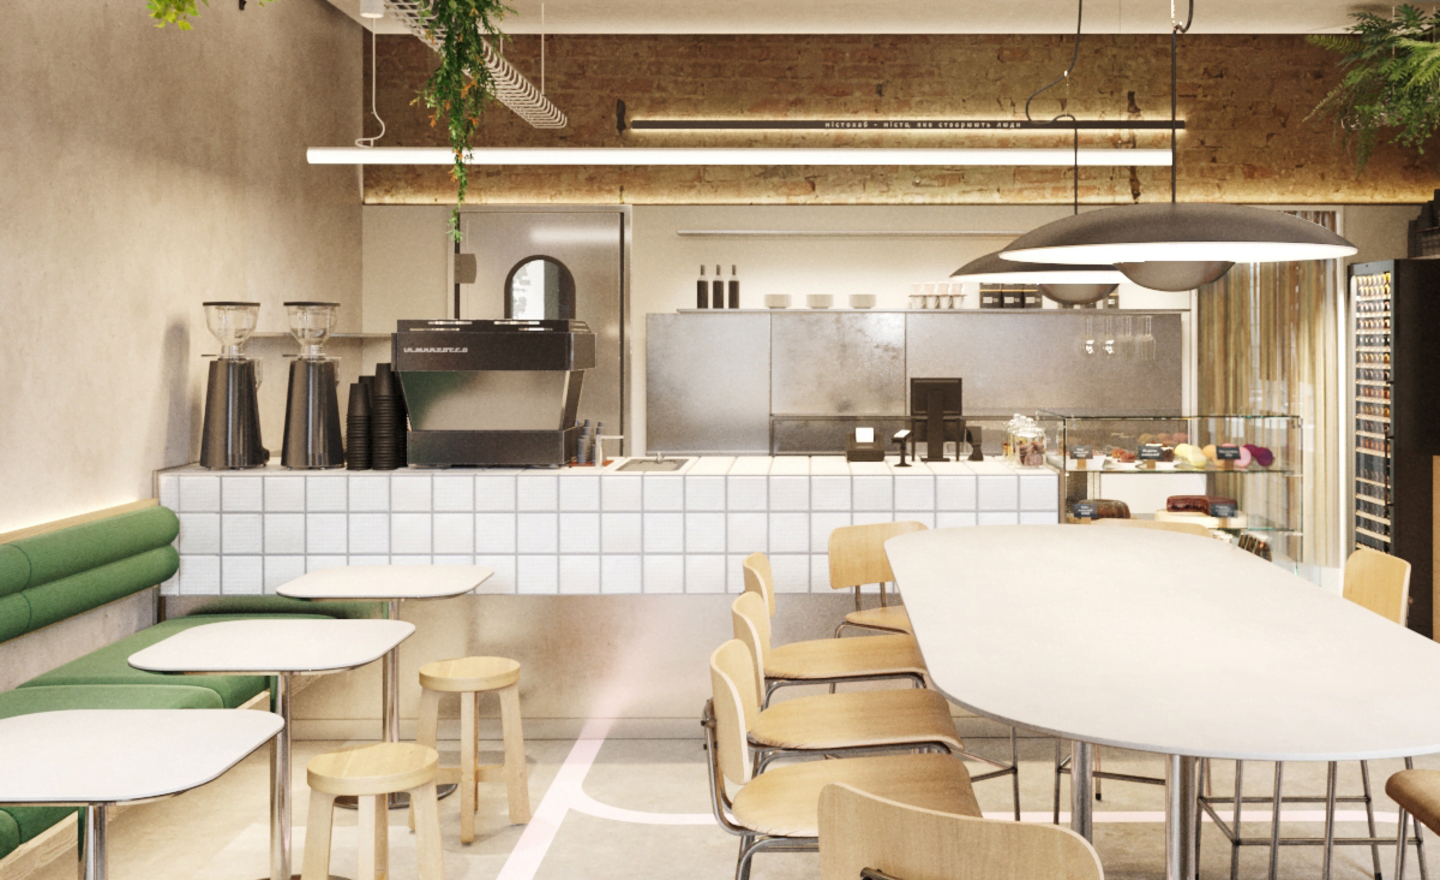
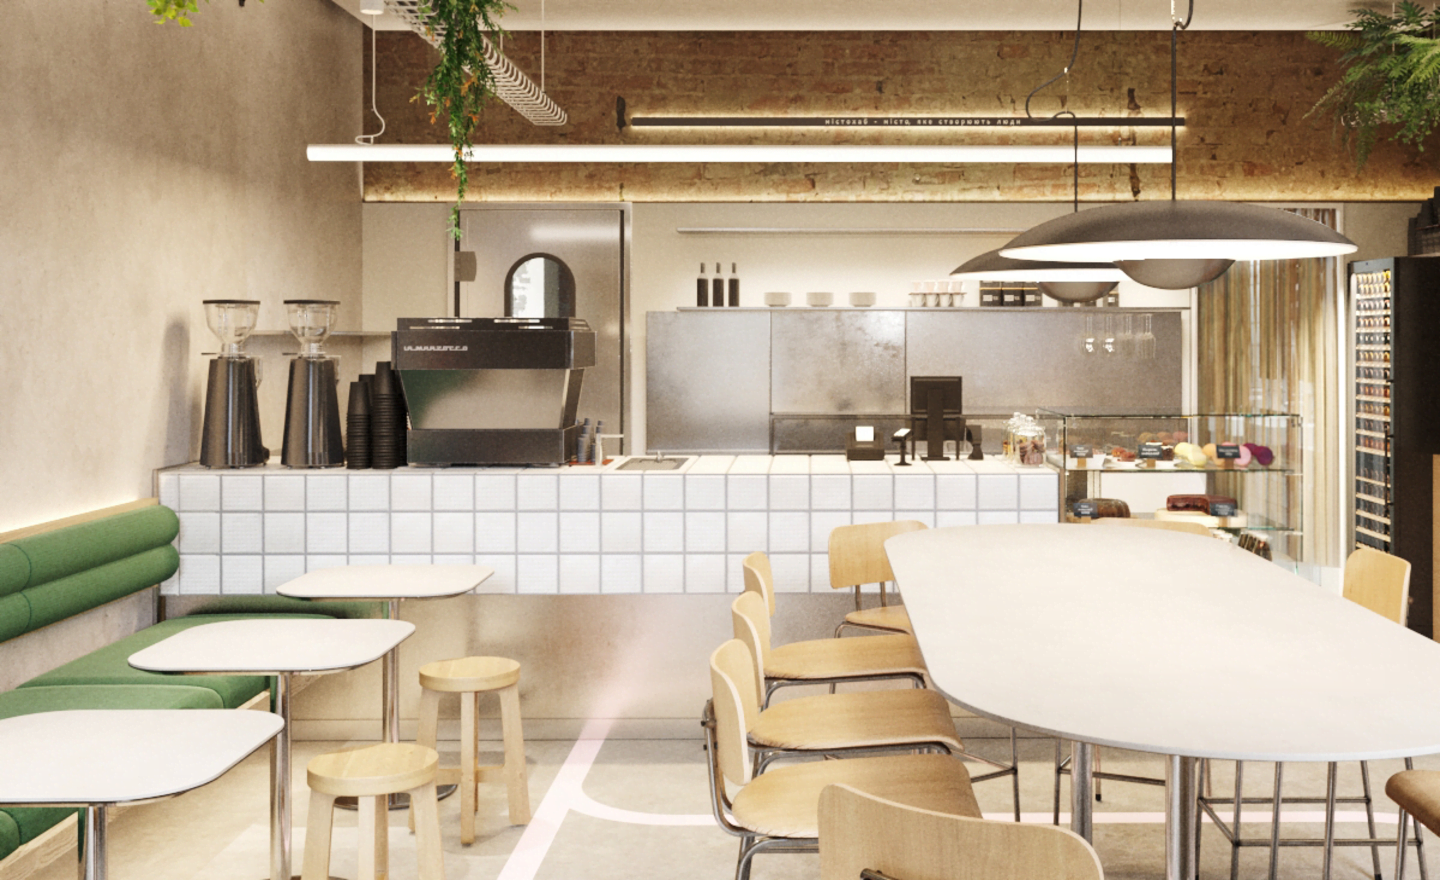
del comment and fix picture attr

diff --git a/src/constants/dataHeroSwiper.js b/src/constants/dataHeroSwiper.js
@@ -1,7 +1,3 @@
-import img1Png1 from '/src/assets/hero/hero1.png';
-import img1Png2 from '/src/assets/hero/hero1@2x.png';
-import img1WebP1 from '/src/assets/hero/hero1.webp';
-import img1WebP2 from '/src/assets/hero/hero1@2x.webp';
 import img1mob from '/src/assets/hero/mobile/hero1mob.png';
 import img1mobWebP from '/src/assets/hero/mobile/hero1mob.webp';
 import img1mob2x from '/src/assets/hero/mobile/hero1mob@2x.png';
@@ -76,7 +72,7 @@ export const heroData = [
       webp: img2WebP1,
       webp_2x: img2WebP2,
     },
-    alt: 'Kitchen 1',
+    alt: 'Kitchen 2',
   },
   {
     mobile: {
@@ -97,7 +93,7 @@ export const heroData = [
       webp: img3WebP1,
       webp_2x: img3WebP2,
     },
-    alt: 'Kitchen 1',
+    alt: 'Kitchen 3',
   },
   {
     mobile: {
@@ -118,7 +114,7 @@ export const heroData = [
       webp: img4WebP1,
       webp_2x: img4WebP2,
     },
-    alt: 'Kitchen 1',
+    alt: 'Kitchen 4',
   },
   {
     mobile: {
@@ -139,64 +135,6 @@ export const heroData = [
       webp: img5WebP1,
       webp_2x: img5WebP2,
     },
-    alt: 'Kitchen 1',
+    alt: 'Kitchen 5',
   },
 ];
-// export const heroData = [
-//   {
-//     imgPng1: img1Png1,
-//     imgPng2: img1Png2,
-//     imgWebP1: img1WebP1,
-//     imgWebP2: img1WebP2,
-//     alt: 'Kitchen 1',
-//   },
-//   {
-//     mobile: {
-//       png: img1mob,
-//       png_2x: img1mob2x,
-//       webp: img1mobWebP,
-//       webp_2x: img1mob2xWebP,
-//     },
-//     tablet: {
-//       png: img1tablet,
-//       png_2x: img1tablet2x,
-//       webp: img1tabletWebP,
-//       webp_2x: img1tablet2xWebP,
-//     },
-//     desktop: {
-//       png: img1desktop,
-//       png_2x: img1desktop2x,
-//       webp: img1desktopWebP,
-//       webp_2x: img1desktop2xWebP,
-//     },
-//     alt: 'Kitchen 1',
-//   },
-//   {
-//     imgPng1: img2Png1,
-//     imgPng2: img2Png2,
-//     imgWebP1: img2WebP1,
-//     imgWebP2: img2WebP2,
-//     alt: 'Kitchen 2',
-//   },
-//   {
-//     imgPng1: img3Png1,
-//     imgPng2: img3Png2,
-//     imgWebP1: img3WebP1,
-//     imgWebP2: img3WebP2,
-//     alt: 'Kitchen 3',
-//   },
-//   {
-//     imgPng1: img4Png1,
-//     imgPng2: img4Png2,
-//     imgWebP1: img4WebP1,
-//     imgWebP2: img4WebP2,
-//     alt: 'Kitchen 4',
-//   },
-//   {
-//     imgPng1: img5Png1,
-//     imgPng2: img5Png2,
-//     imgWebP1: img5WebP1,
-//     imgWebP2: img5WebP2,
-//     alt: 'Kitchen 5',
-//   },
-// ];

diff --git a/src/components/HeroSection/HeroSection.jsx b/src/components/HeroSection/HeroSection.jsx
@@ -35,7 +35,6 @@ const HeroSection = () => {
     }
   };
 
-  console.log('heroData: ', heroData);
   return (
     <HeroSectionStyled>
       <HeroContainer>
@@ -44,39 +43,23 @@ const HeroSection = () => {
             <SwiperSlide key={nanoid()}>
               <picture>
                 <source
-                  srcSet={`${item.mobile.webp} 1x, ${item.mobile.webp_2x} 2x`}
+                  srcSet={`${item.mobile.webp} 375w, ${item.mobile.webp_2x} 750w`}
                   media="(max-width: 767px)"
                   sizes="(max-width: 767px) 375px, 100%"
                   type="image/webp"
-                  loading={idx === 0 ? 'eager' : 'lazy'}
-                  fetchpriority={idx === 0 ? 'high' : 'low'}
                 />
                 <source
-                  srcSet={`${item.tablet.webp} 1x, ${item.tablet.webp_2x} 2x`}
+                  srcSet={`${item.tablet.webp} 768w, ${item.tablet.webp_2x} 1536w`}
                   media="(min-width: 768px) and (max-width: 1439px)"
                   sizes="(min-width: 768px) and (max-width: 1439px) 768px, 100%"
                   type="image/webp"
-                  loading={idx === 0 ? 'eager' : 'lazy'}
-                  fetchpriority={idx === 0 ? 'high' : 'low'}
                 />
                 <source
-                  srcSet={`${item.desktop.webp} 1x, ${item.desktop.webp_2x} 2x`}
-                  media="(min-width: 1440px) "
+                  srcSet={`${item.desktop.webp} 1440w, ${item.desktop.webp_2x} 2880w`}
+                  media="(min-width: 1440px)"
                   sizes="(min-width: 1440px) 1440px, 100%"
-                  loading={idx === 0 ? 'eager' : 'lazy'}
                   type="image/webp"
-                  fetchpriority={idx === 0 ? 'high' : 'low'}
                 />
-                {/* <source
-                  srcSet={`${item.imgWebP1} 1x, ${item.imgWebP2} 2x`}
-                  type="image/webp"
-                  fetchpriority={idx === 0 ? "high" : "low"}
-                />
-                <source
-                  srcSet={`${item.imgPng1} 1x, ${item.imgPng2} 2x`}
-                  type="image/png"
-                  fetchpriority={idx === 0 ? "high" : "low"}
-                /> */}
                 <img
                   fetchpriority={idx === 0 ? 'high' : 'low'}
                   loading={idx === 0 ? 'eager' : 'lazy'}

diff --git a/src/components/Visualization/Visualization.jsx b/src/components/Visualization/Visualization.jsx
@@ -1,6 +1,8 @@
 import { useState, useEffect, useRef, lazy, Suspense } from 'react';
+
 import { useMediaQuery } from 'react-responsive';
-// import TourModal from './TourModal';
+import { nanoid } from 'nanoid';
+
 import { images } from '../../constants/ImageImportsVisualization';
 import {
   VisualizationSection,
@@ -16,7 +18,6 @@ import {
   RightArrow,
 } from './Visualization.styled';
 import Iconsvg from '../Icon/Icon';
-import { nanoid } from 'nanoid';
 
 const TourModal = lazy(
   () => import('/src/components/Visualization/TourModal.jsx')
